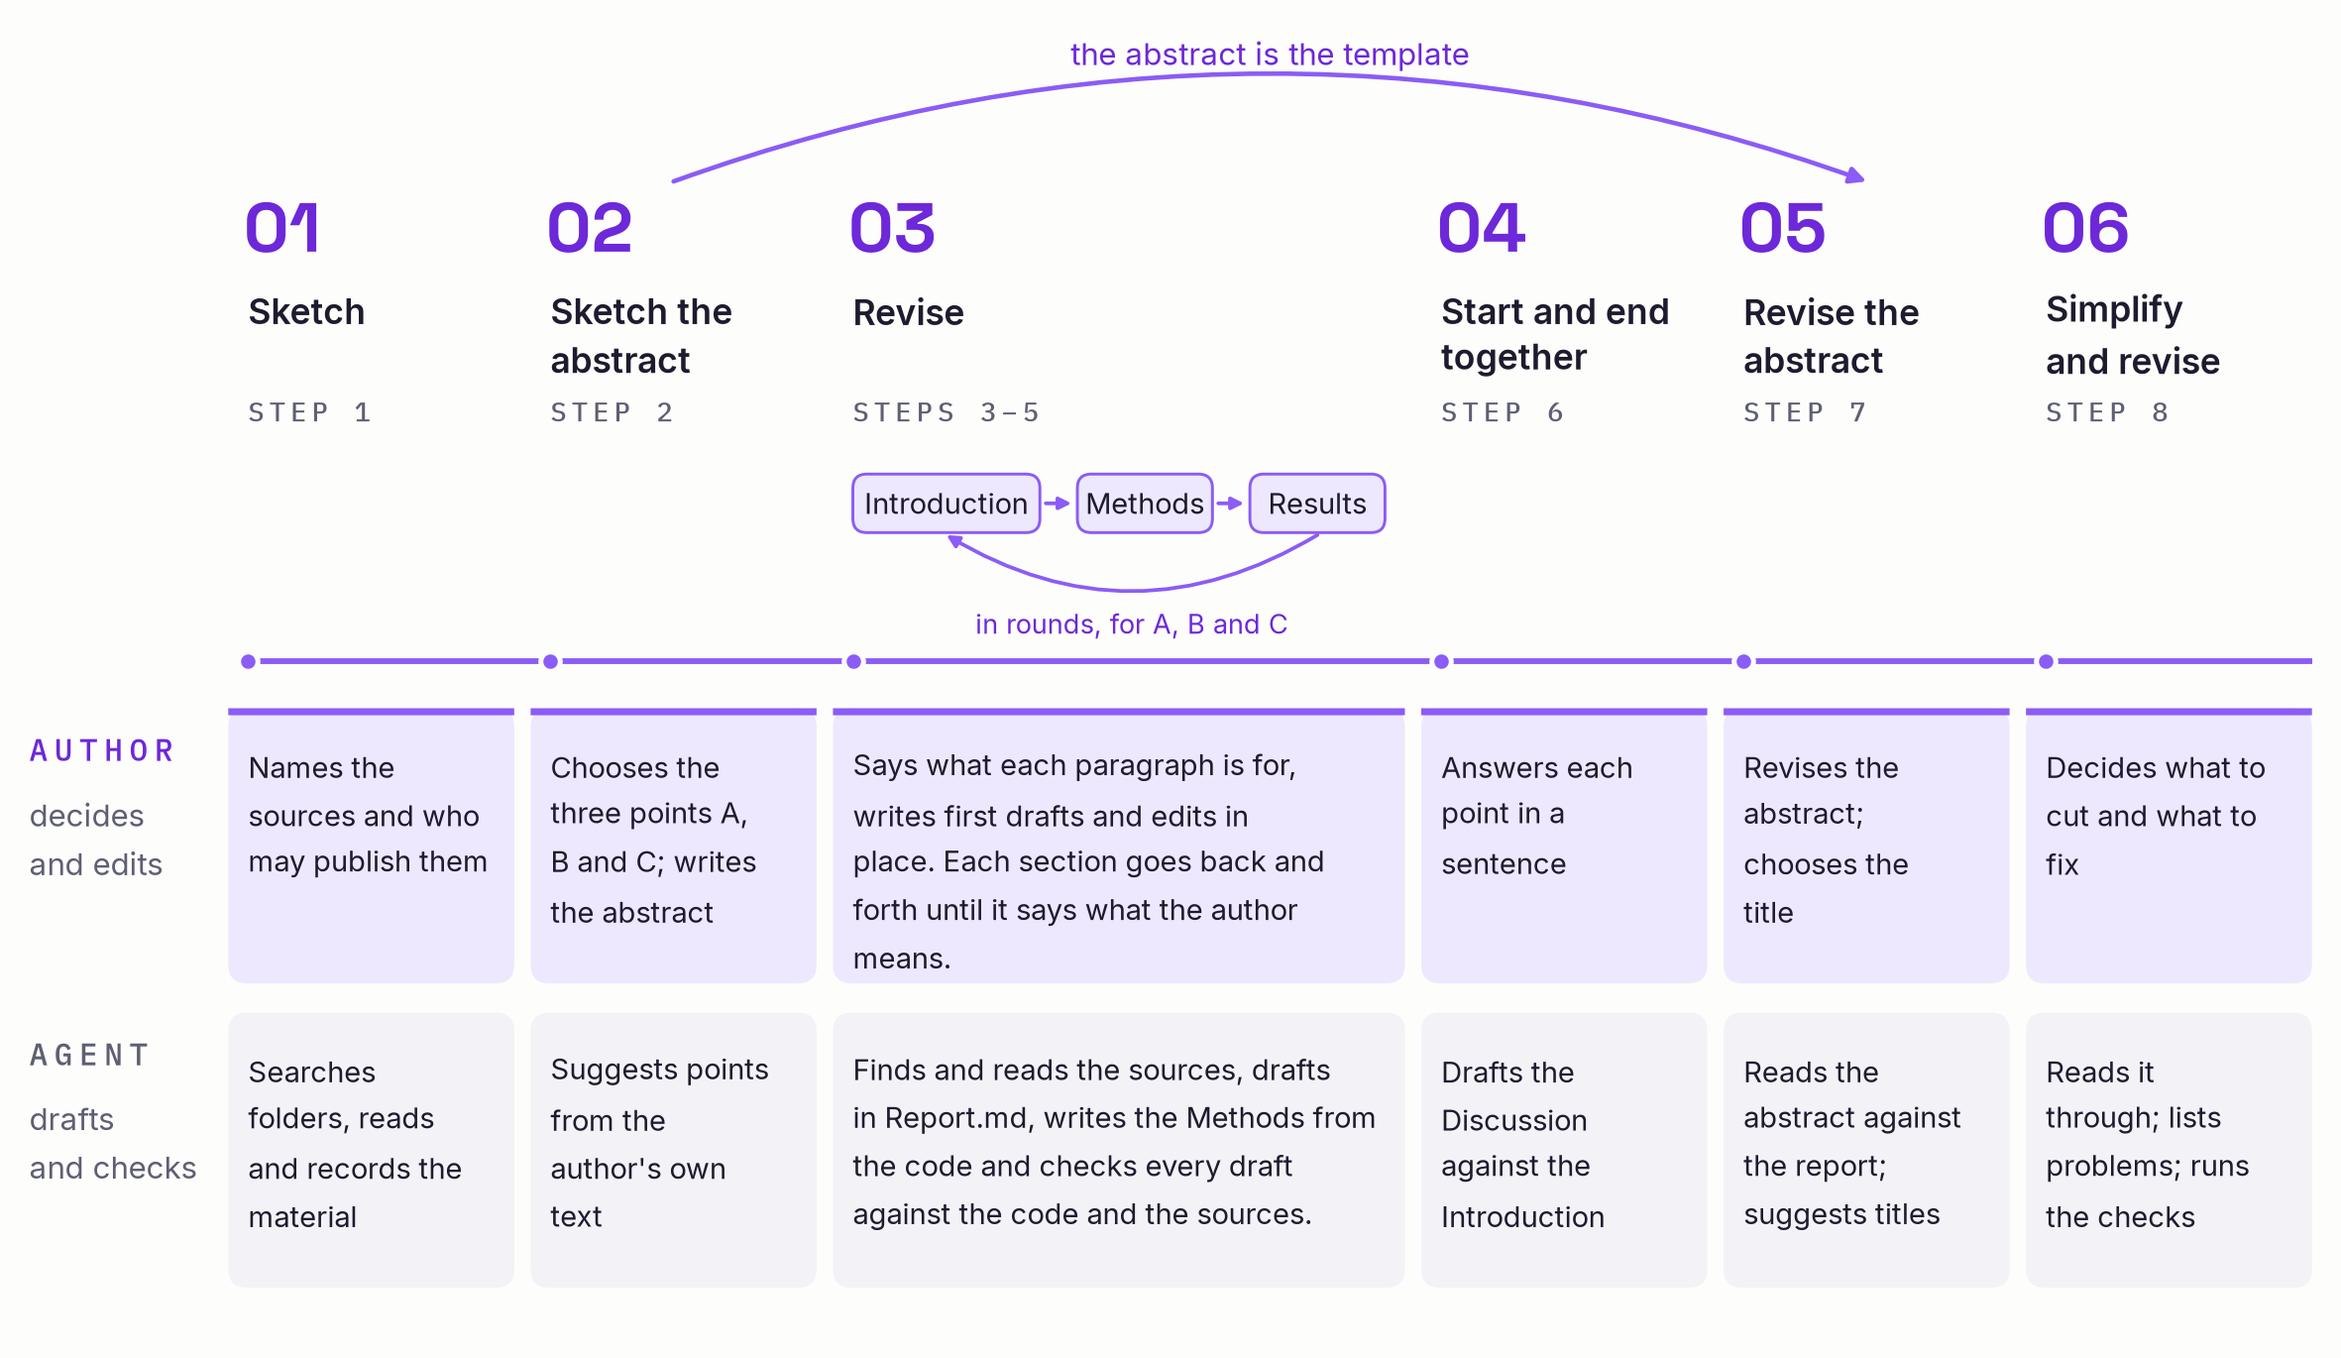
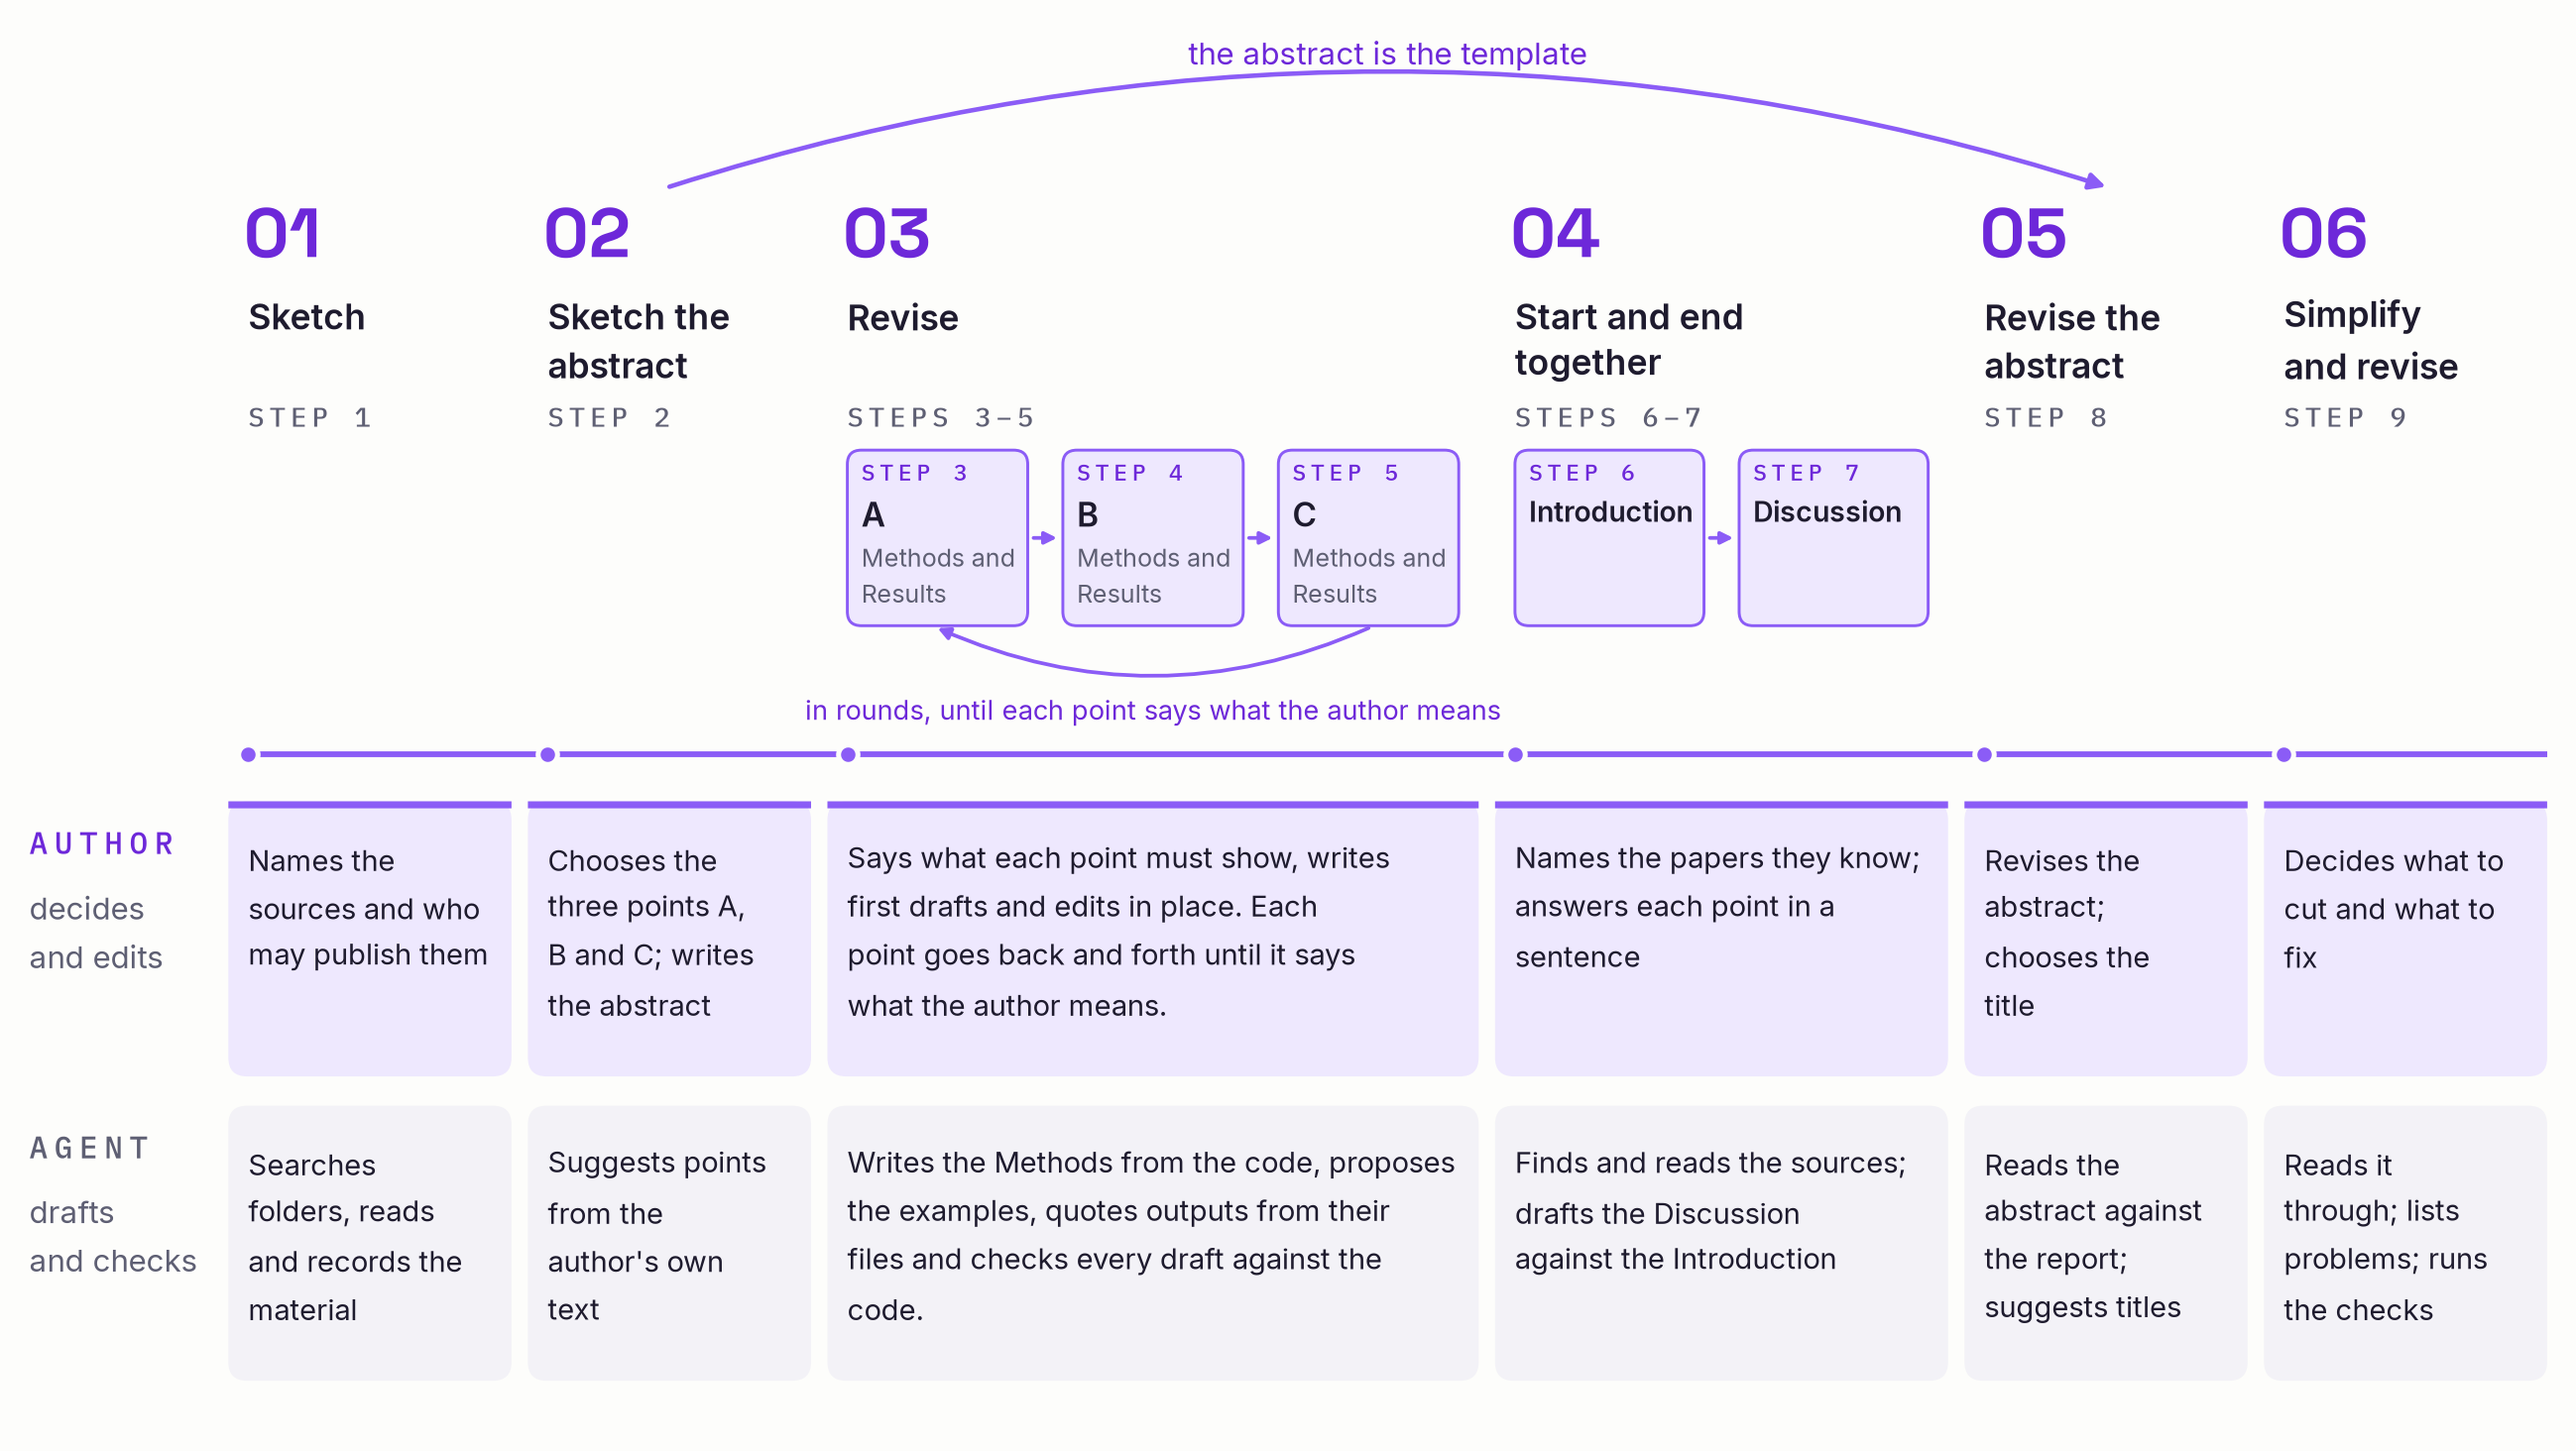
Paper 0001: writing-process figure redrawn for the point-by-point revise phase (steps 3-5) and Introduction and Discussion together (6-7)

diff --git a/papers/0001-what-is-a-vivid-report/Code/fig_writing_process.py b/papers/0001-what-is-a-vivid-report/Code/fig_writing_process.py
@@ -1,9 +1,10 @@
 """Figure: the writing process — six phases, the steps in each, and what author and agent each do.
 
-Drawn from `instructions.md` (`The Six Phases and the Ten Steps`) and David's sketch of the drafting
-order (`Writing workflow` keynote). The revise phase is drawn wider: in it the Introduction, Methods
-and Results are drafted and redrafted, in rounds, for each of the points A, B and C. Review (step 9)
-and publication (step 10) are left out: the report describes them separately.
+Drawn from `instructions.md` (`The Six Phases and the Eleven Steps`) and David's sketch of the
+drafting order (`Writing workflow` keynote). In the revise phase the Methods and Results are written
+point by point — A in step 3, B in step 4, C in step 5 — in rounds; the Introduction (step 6) and the
+Discussion (step 7) are then written together. Review (step 10) and publication (step 11) are left
+out: the report describes them separately.
 
     cd Code && uv run python ../papers/0001-what-is-a-vivid-report/Code/fig_writing_process.py
 """
@@ -25,31 +26,36 @@ PHASES = [
     ("Sketch the\nabstract", "2", 1,
      "Chooses the three points A, B and C; writes the abstract",
      "Suggests points from the author's own text"),
-    ("Revise", "3–5", 2.0,
-     "Says what each paragraph is for, writes first drafts and edits in place. "
-     "Each section goes back and forth until it says what the author means.",
-     "Finds and reads the sources, drafts in Report.md, writes the Methods from the code "
-     "and checks every draft against the code and the sources."),
-    ("Start and end\ntogether", "6", 1,
-     "Answers each point in a sentence",
-     "Drafts the Discussion against the Introduction"),
-    ("Revise the\nabstract", "7", 1,
+    ("Revise", "3–5", 2.3,
+     "Says what each point must show, writes first drafts and edits in place. "
+     "Each point goes back and forth until it says what the author means.",
+     "Writes the Methods from the code, proposes the examples, quotes outputs from their files "
+     "and checks every draft against the code."),
+    ("Start and end\ntogether", "6–7", 1.6,
+     "Names the papers they know; answers each point in a sentence",
+     "Finds and reads the sources; drafts the Discussion against the Introduction"),
+    ("Revise the\nabstract", "8", 1,
      "Revises the abstract; chooses the title",
      "Reads the abstract against the report; suggests titles"),
-    ("Simplify\nand revise", "8", 1,
+    ("Simplify\nand revise", "9", 1,
      "Decides what to cut and what to fix",
      "Reads it through; lists problems; runs the checks"),
 ]
-SECTIONS = ["Introduction", "Methods", "Results"]   # drafted in the revise phase, in this order
+# the steps drawn inside a phase: (step, label)
+INSET = {
+    2: [("Step 3", "A\nMethods and\nResults"), ("Step 4", "B\nMethods and\nResults"), ("Step 5", "C\nMethods and\nResults")],
+    3: [("Step 6", "Introduction"), ("Step 7", "Discussion")],
+}
 
-W, H = 20, 11.6
+W, H = 22, 12.4
 GUTTER, RIGHT, GAP = 1.95, 0.25, 0.14
 UNIT = (W - GUTTER - RIGHT - GAP * (len(PHASES) - 1)) / sum(p[2] for p in PHASES)
 PAD = 0.17
 CHARS_PER_CM = 7.8          # Inter at 7 pt
 LANES = {"author": (3.2, 2.35), "agent": (0.6, 2.35)}   # bottom, height
 RULE_Y = 5.95
-NUM_Y, NAME_Y, STEP_Y = 9.45, 9.15, 8.0
+NUM_Y, NAME_Y, STEP_Y = 10.2, 9.9, 8.75
+CHIP_Y, CHIP_H, CHIP_GAP = 7.05, 1.5, 0.3
 
 for t in vs.themes():
     fig, ax = vs.diagram(W, H)
@@ -80,27 +86,34 @@ for t in vs.themes():
             ax.text(x + PAD, y0 + h - 0.3, textwrap.fill(text, wrap), fontsize=7, color=t.ink,
                     va="top", linespacing=1.38, zorder=3)
 
-    # inside the revise phase: Introduction -> Methods -> Results, and round again, for A, B and C
-    i = 2
-    x, w = xs[i] + PAD, ws[i] - 2 * PAD
-    cgap, cy, ch = 0.32, 7.05, 0.5
-    shares = [len(n) + 6 for n in SECTIONS]                     # wider box for a longer name
-    cws = [(w - 2 * cgap) * sh / sum(shares) for sh in shares]
-    cxs = [x + sum(cws[:k]) + k * cgap for k in range(3)]
-    for k, name in enumerate(SECTIONS):
-        cx, cw = cxs[k], cws[k]
-        vs.card(ax, cx, cy, cw, ch, fill="wash", edge="accent", radius=0.12, lw=0.7, zorder=2)
-        ax.text(cx + cw / 2, cy + ch / 2, name, ha="center", va="center", fontsize=7, color=t.ink, zorder=3)
-        if k:
-            vs.arrow(ax, (cx - cgap + 0.05, cy + ch / 2), (cx - 0.05, cy + ch / 2), lw=0.9, head=6)
-    first, last = cxs[0] + cws[0] / 2, cxs[2] + cws[2] / 2
-    vs.arrow(ax, (last, cy - 0.02), (first, cy - 0.02), rad=-0.3, lw=0.9, head=6)
-    ax.text((first + last) / 2, cy - 0.78, "in rounds, for A, B and C", ha="center", va="center",
-            fontsize=6.5, style="italic", color=t.accent_text, zorder=3)
+        # the separate steps inside a phase, in the order they are written
+        if i in INSET:
+            chips = INSET[i]
+            inner = w - 2 * PAD
+            cw = (inner - CHIP_GAP * (len(chips) - 1)) / len(chips)
+            centres = []
+            for k, (step, label) in enumerate(chips):
+                cx = x + PAD + k * (cw + CHIP_GAP)
+                centres.append(cx + cw / 2)
+                vs.card(ax, cx, CHIP_Y, cw, CHIP_H, fill="wash", edge="accent", radius=0.12, lw=0.7, zorder=2)
+                vs.eyebrow(ax, cx + 0.12, CHIP_Y + CHIP_H - 0.26, step, colour_name="accent_text", size=5.5, zorder=3)
+                head, _, rest = label.partition("\n")
+                ax.text(cx + 0.12, CHIP_Y + CHIP_H - 0.38, head, fontsize=8 if rest else 6.8, fontweight="semibold",
+                        color=t.ink, va="top", zorder=3)
+                if rest:
+                    ax.text(cx + 0.12, CHIP_Y + 0.12, rest, fontsize=6, color=t.muted, va="bottom",
+                            linespacing=1.2, zorder=3)
+                if k:
+                    vs.arrow(ax, (cx - CHIP_GAP + 0.05, CHIP_Y + CHIP_H / 2), (cx - 0.05, CHIP_Y + CHIP_H / 2),
+                             lw=0.9, head=6, zorder=4)
+            if i == 2:   # each point is drafted and redrafted, in rounds
+                vs.arrow(ax, (centres[-1], CHIP_Y - 0.02), (centres[0], CHIP_Y - 0.02), rad=-0.22, lw=0.9, head=6)
+                ax.text((centres[0] + centres[-1]) / 2, CHIP_Y - 0.72, "in rounds, until each point says what the author means",
+                        ha="center", va="center", fontsize=6.5, style="italic", color=t.accent_text, zorder=3)
 
     # the abstract, drafted in phase 2, is the template that phase 5 revises it against
     c2, c5 = xs[1] + ws[1] / 2, xs[4] + ws[4] / 2
-    vs.arrow(ax, (c2, NUM_Y + 0.6), (c5, NUM_Y + 0.6), rad=-0.18, lw=1.1)
+    vs.arrow(ax, (c2, NUM_Y + 0.6), (c5, NUM_Y + 0.6), rad=-0.16, lw=1.1)
     ax.text((c2 + c5) / 2, H - 0.3, "the abstract is the template", ha="center", va="top",
             fontsize=7.5, style="italic", color=t.accent_text)
 

diff --git a/papers/0001-what-is-a-vivid-report/Report.md b/papers/0001-what-is-a-vivid-report/Report.md
@@ -50,9 +50,9 @@ Each Vivid Report is written in a shared repository, in one folder that holds th
 
 Writing follows six phases: sketch the idea, draft the abstract, revise, write the start and end together, revise the abstract, and simplify and revise. At the first step, the agent gathers the material the report will rest on, such as code, saved model outputs, earlier papers and notes, and records where each came from. In the second step, author and agent agree the three points the report makes and put them into a working abstract. The abstract is then the template that each later section is checked against: the Introduction gives one paragraph of background to each point, the Methods and Results take them in the same order, and the Discussion answers them.
 
-::: figure {#fig-writing src="Code/outputs/figures/writing_process.png" width=wide alt="A timeline of the six phases of writing a report, numbered 01 to 06 with their steps, above two rows of cards: what the author does in each phase and what the agent does"}
+::: figure {#fig-writing src="Code/outputs/figures/writing_process.png" width=wide alt="A timeline of the six phases of writing a report, numbered 01 to 06 with their steps, steps 3 to 7 drawn as separate boxes, above two rows of cards: what the author does in each phase and what the agent does"}
 ![[papers/0001-what-is-a-vivid-report/Code/outputs/figures/writing_process.png]]
-The six phases of writing a report, numbered from left to right, with the steps carried out in each. The upper row of cards says what the author does in each phase, the lower row what the agent does. The third phase is drawn wider: in it the Introduction, Methods and Results are drafted in turn and then redrafted, in rounds, for each of the three points A, B and C. The arrow joins the phase in which the abstract is drafted to the phase in which it is revised against the finished report. Review and publication come after step 8 and are not shown.
+The six phases of writing a report, numbered from left to right, with the steps carried out in each. The upper row of cards says what the author does in each phase, the lower row what the agent does. In the third phase the Methods and Results are written one point at a time, A in step 3, B in step 4 and C in step 5, and each point is redrafted in rounds. In the fourth phase the Introduction (step 6) and then the Discussion (step 7) are written. The arrow joins the phase in which the abstract is drafted to the phase in which it is revised against the finished report. Review and publication come after step 9 and are not shown.
 :::
 
 The agent is instructed to keep the author's judgement at the centre. The author decides what the report says, and is asked to go first: to name the point of a paragraph before it is drafted, the papers they know before a search, and what they expected before a result is written up. The agent writes its drafts directly into the report, where the author edits them, and reads the author's edits before its next change. It works one step at a time and stops, so that each step can be read before the next begins.

diff --git a/papers/0001-what-is-a-vivid-report/Appendix.md b/papers/0001-what-is-a-vivid-report/Appendix.md
@@ -297,7 +297,7 @@ Recorded 2 November as "axes of disagreement"; superseded as a framing by David'
 
 *Kept current whenever code is added or changed: what each script does, how to run it, what it reads and produces, and any model, prompt, seed or setting that affects the result. Installation belongs in [Setup.md](Setup.md).*
 
-- `Code/fig_writing_process.py` draws Figure 1, the writing process: six phases with their steps, and what author and agent do in each, taken from `instructions.md` (`The Six Phases and the Ten Steps`). Reads no data. Writes `Code/outputs/figures/writing_process.png` and its dark version. Run: `cd Code && uv run python ../papers/0001-what-is-a-vivid-report/Code/fig_writing_process.py`.
+- `Code/fig_writing_process.py` draws Figure 1, the writing process: six phases with their steps, and what author and agent do in each, taken from `instructions.md` (`The Six Phases and the Eleven Steps`; steps 3–5 are the Methods and Results of A, B and C, steps 6–7 the Introduction and Discussion). Reads no data. Writes `Code/outputs/figures/writing_process.png` and its dark version. Run: `cd Code && uv run python ../papers/0001-what-is-a-vivid-report/Code/fig_writing_process.py`.
 
 ## References
 
